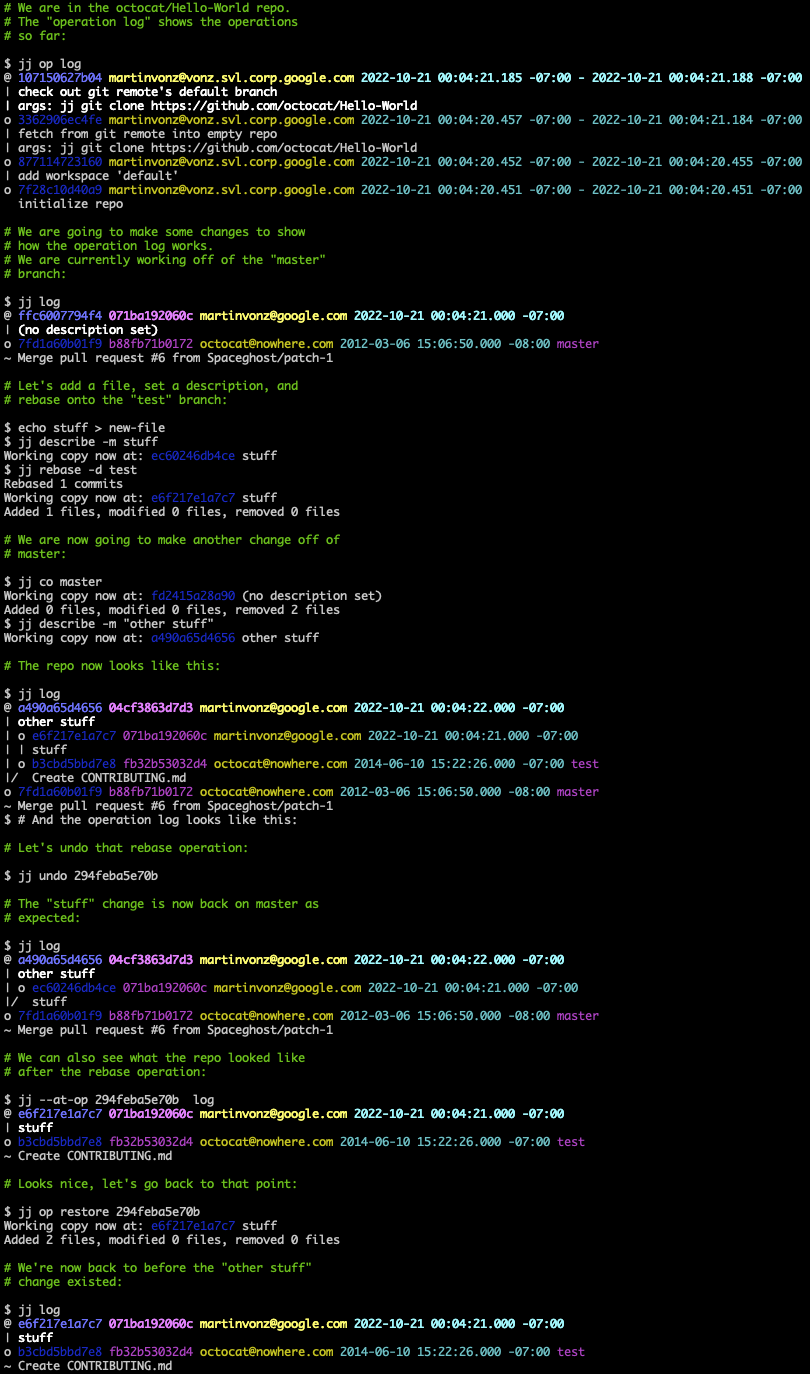
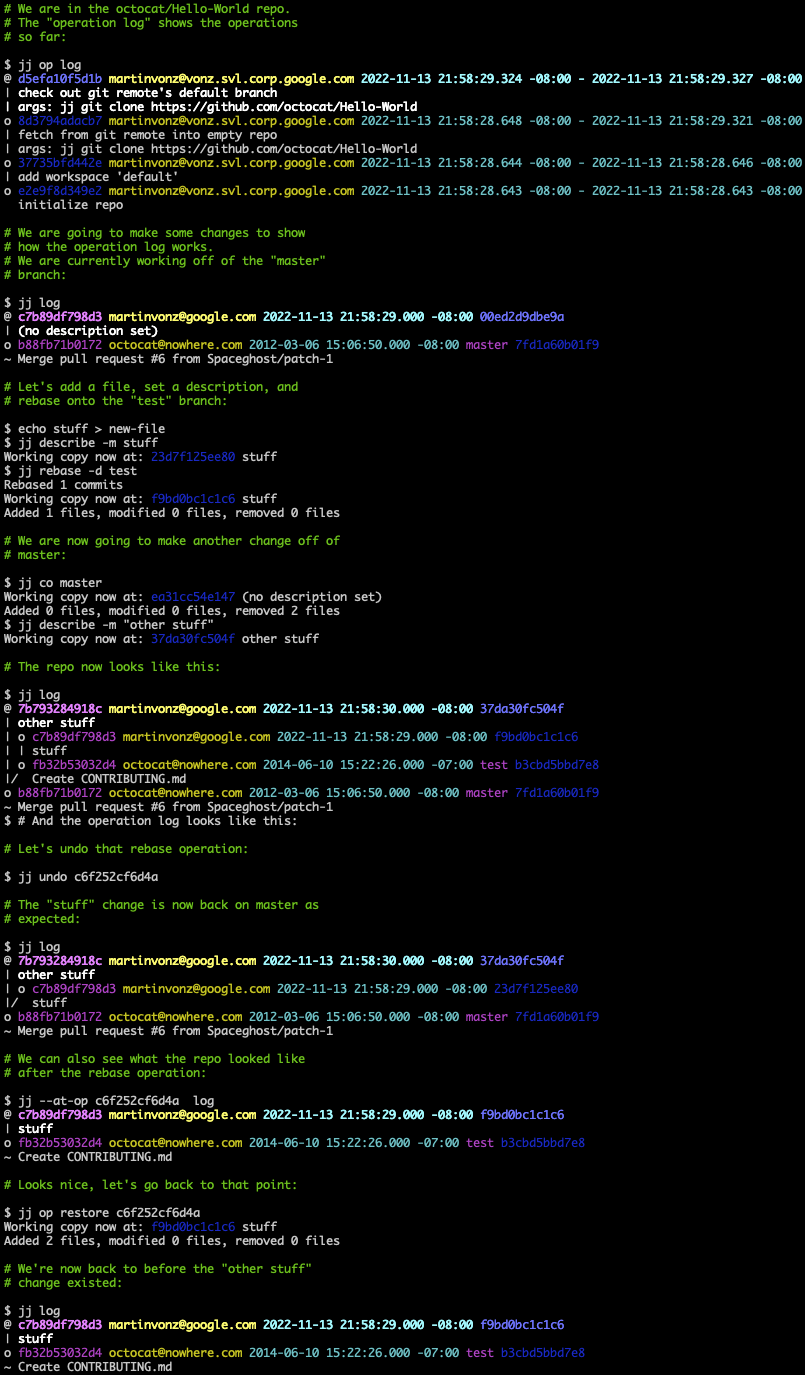
log: move commit ID off to the right
We have talked about showing the commit ID only for divergent changes
because it's generally easier to work with the change ID, and it's
less likely to result in a divergent change. However, it's useful to
have the commit ID available for pasting into e.g. a commit message or
the GitHub UI. To try to steer users towards using the change ID, this
commit moves the commit ID off to the right in the log output.

I put it just after the "divergent" field, because that makes it close
to how I imagine it would look if we decided to hide the commit ID
except for divergent changes. I was thinking that could be rendered as
"divergent (abc123)". So if we add config to hide the commit ID, then
it would be rendered almost the same for divergent commits (just with
the added parentheses). It would also make sense to replace the
"divergent" field by a question mark on the change ID, since change
IDs basically behave like branches. If we do that, then the placement
of the commit ID I picked in this commit does not make sense.

Changed region(s): [[0.0, 0.0, 0.9938, 1.0]]

diff --git a/tests/test_obslog_command.rs b/tests/test_obslog_command.rs
@@ -34,13 +34,13 @@ fn test_obslog_with_or_without_diff() {
 
     let stdout = get_log_output(&test_env, &repo_path, &["obslog"]);
     insta::assert_snapshot!(stdout, @r###"
-    @ 1daafc17fefb test.user@example.com 2001-02-03 04:05:08.000 +07:00
+    @  test.user@example.com 2001-02-03 04:05:08.000 +07:00 1daafc17fefb
     | my description
-    o 813918f7b4e6 test.user@example.com 2001-02-03 04:05:08.000 +07:00 conflict
+    o  test.user@example.com 2001-02-03 04:05:08.000 +07:00 813918f7b4e6 conflict
     | my description
-    o 8f02f5470c55 test.user@example.com 2001-02-03 04:05:08.000 +07:00
+    o  test.user@example.com 2001-02-03 04:05:08.000 +07:00 8f02f5470c55
     | my description
-    o c8ceb219336b test.user@example.com 2001-02-03 04:05:08.000 +07:00
+    o  test.user@example.com 2001-02-03 04:05:08.000 +07:00 c8ceb219336b
       my description
     "###);
 
@@ -48,43 +48,43 @@ fn test_obslog_with_or_without_diff() {
     // (even even though it resulted in a conflict).
     let stdout = get_log_output(&test_env, &repo_path, &["obslog", "-p"]);
     insta::assert_snapshot!(stdout, @r###"
-    @ 1daafc17fefb test.user@example.com 2001-02-03 04:05:08.000 +07:00
+    @  test.user@example.com 2001-02-03 04:05:08.000 +07:00 1daafc17fefb
     | my description
     | Resolved conflict in file1:
     |    1    1: <<<<<<<resolved
     |    2     : %%%%%%%
     |    3     : +bar
     |    4     : >>>>>>>
-    o 813918f7b4e6 test.user@example.com 2001-02-03 04:05:08.000 +07:00 conflict
+    o  test.user@example.com 2001-02-03 04:05:08.000 +07:00 813918f7b4e6 conflict
     | my description
-    o 8f02f5470c55 test.user@example.com 2001-02-03 04:05:08.000 +07:00
+    o  test.user@example.com 2001-02-03 04:05:08.000 +07:00 8f02f5470c55
     | my description
     | Modified regular file file1:
     |    1    1: foo
     |         2: bar
     | Added regular file file2:
     |         1: foo
-    o c8ceb219336b test.user@example.com 2001-02-03 04:05:08.000 +07:00
+    o  test.user@example.com 2001-02-03 04:05:08.000 +07:00 c8ceb219336b
       my description
     "###);
 
     // Test `--no-graph`
     let stdout = get_log_output(&test_env, &repo_path, &["obslog", "--no-graph"]);
     insta::assert_snapshot!(stdout, @r###"
-    1daafc17fefb test.user@example.com 2001-02-03 04:05:08.000 +07:00
+     test.user@example.com 2001-02-03 04:05:08.000 +07:00 1daafc17fefb
     my description
-    813918f7b4e6 test.user@example.com 2001-02-03 04:05:08.000 +07:00 conflict
+     test.user@example.com 2001-02-03 04:05:08.000 +07:00 813918f7b4e6 conflict
     my description
-    8f02f5470c55 test.user@example.com 2001-02-03 04:05:08.000 +07:00
+     test.user@example.com 2001-02-03 04:05:08.000 +07:00 8f02f5470c55
     my description
-    c8ceb219336b test.user@example.com 2001-02-03 04:05:08.000 +07:00
+     test.user@example.com 2001-02-03 04:05:08.000 +07:00 c8ceb219336b
     my description
     "###);
 
     // Test `--git` format, and that it implies `-p`
     let stdout = get_log_output(&test_env, &repo_path, &["obslog", "--no-graph", "--git"]);
     insta::assert_snapshot!(stdout, @r###"
-    1daafc17fefb test.user@example.com 2001-02-03 04:05:08.000 +07:00
+     test.user@example.com 2001-02-03 04:05:08.000 +07:00 1daafc17fefb
     my description
     diff --git a/file1 b/file1
     index e155302a24...2ab19ae607 100644
@@ -96,9 +96,9 @@ fn test_obslog_with_or_without_diff() {
     -+bar
     ->>>>>>>
     +resolved
-    813918f7b4e6 test.user@example.com 2001-02-03 04:05:08.000 +07:00 conflict
+     test.user@example.com 2001-02-03 04:05:08.000 +07:00 813918f7b4e6 conflict
     my description
-    8f02f5470c55 test.user@example.com 2001-02-03 04:05:08.000 +07:00
+     test.user@example.com 2001-02-03 04:05:08.000 +07:00 8f02f5470c55
     my description
     diff --git a/file1 b/file1
     index 257cc5642c...3bd1f0e297 100644
@@ -114,7 +114,7 @@ fn test_obslog_with_or_without_diff() {
     +++ b/file2
     @@ -1,0 +1,1 @@
     +foo
-    c8ceb219336b test.user@example.com 2001-02-03 04:05:08.000 +07:00
+     test.user@example.com 2001-02-03 04:05:08.000 +07:00 c8ceb219336b
     my description
     "###);
 }
@@ -136,36 +136,36 @@ fn test_obslog_squash() {
 
     let stdout = get_log_output(&test_env, &repo_path, &["obslog", "-p", "-r", "@-"]);
     insta::assert_snapshot!(stdout, @r###"
-    o   9b6d4a272a6a test.user@example.com 2001-02-03 04:05:07.000 +07:00
+    o    test.user@example.com 2001-02-03 04:05:07.000 +07:00 9b6d4a272a6a
     |\  squashed
     | | Modified regular file file1:
     | |    1    1: foo
     | |         2: bar
-    o | 803a7299cb1a test.user@example.com 2001-02-03 04:05:07.000 +07:00
+    o |  test.user@example.com 2001-02-03 04:05:07.000 +07:00 803a7299cb1a
     | | first
     | | Added regular file file1:
     | |         1: foo
-    o | 85a1e2839620 test.user@example.com 2001-02-03 04:05:07.000 +07:00
+    o |  test.user@example.com 2001-02-03 04:05:07.000 +07:00 85a1e2839620
     | | first
-    o | 230dd059e1b0 test.user@example.com 2001-02-03 04:05:07.000 +07:00
+    o |  test.user@example.com 2001-02-03 04:05:07.000 +07:00 230dd059e1b0
      /  (no description set)
-    o 69231a40d60d test.user@example.com 2001-02-03 04:05:09.000 +07:00
+    o  test.user@example.com 2001-02-03 04:05:09.000 +07:00 69231a40d60d
     | second
     | Modified regular file file1:
     |    1    1: foo
     |         2: bar
-    o b567edda97ab test.user@example.com 2001-02-03 04:05:09.000 +07:00
+    o  test.user@example.com 2001-02-03 04:05:09.000 +07:00 b567edda97ab
       second
     "###);
 }
 
 fn get_log_output(test_env: &TestEnvironment, repo_path: &Path, args: &[&str]) -> String {
     // Filter out the change ID since it's random
-    let regex = Regex::new("^([o@| ]+)?([0-9a-f]{12}) ([0-9a-f]{12}) ").unwrap();
+    let regex = Regex::new("^([o@| ]+)?([0-9a-f]{12})").unwrap();
     let mut lines = vec![];
     let stdout = test_env.jj_cmd_success(repo_path, args);
     for line in stdout.split_inclusive('\n') {
-        lines.push(regex.replace(line, "$1$2 "));
+        lines.push(regex.replace(line, "$1"));
     }
     lines.join("")
 }

diff --git a/tests/test_init_command.rs b/tests/test_init_command.rs
@@ -107,7 +107,7 @@ fn test_init_git_external() {
     // Check that the Git repo's HEAD got checked out
     let stdout = test_env.jj_cmd_success(&repo_path, &["log", "-r", "@-"]);
     insta::assert_snapshot!(stdout, @r###"
-    o 8d698d4a8ee1 d3866db7e30a git.user@example.com 1970-01-01 01:02:03.000 +01:00 my-branch HEAD@git
+    o d3866db7e30a git.user@example.com 1970-01-01 01:02:03.000 +01:00 my-branch HEAD@git 8d698d4a8ee1
     ~ My commit message
     "###);
 }
@@ -150,7 +150,7 @@ fn test_init_git_colocated() {
     // Check that the Git repo's HEAD got checked out
     let stdout = test_env.jj_cmd_success(&repo_path, &["log", "-r", "@-"]);
     insta::assert_snapshot!(stdout, @r###"
-    o 8d698d4a8ee1 d3866db7e30a git.user@example.com 1970-01-01 01:02:03.000 +01:00 my-branch HEAD@git
+    o d3866db7e30a git.user@example.com 1970-01-01 01:02:03.000 +01:00 my-branch HEAD@git 8d698d4a8ee1
     ~ My commit message
     "###);
 }

diff --git a/src/commands.rs b/src/commands.rs
@@ -1994,8 +1994,7 @@ fn log_template(settings: &UserSettings) -> String {
     // TODO: define a method on boolean values, so we can get auto-coloring
     //       with e.g. `conflict.then("conflict")`
     let default_template = r#"
-            commit_id.short()
-            " " change_id.short()
+            change_id.short()
             " " author.email()
             " " label("timestamp", author.timestamp())
             if(branches, " " branches)
@@ -2003,6 +2002,7 @@ fn log_template(settings: &UserSettings) -> String {
             if(working_copies, " " working_copies)
             if(is_git_head, label("git_head", " HEAD@git"))
             if(divergent, label("divergent", " divergent"))
+            " " commit_id.short()
             if(conflict, label("conflict", " conflict"))
             "\n"
             description.first_line()

diff --git a/tests/test_alias.rs b/tests/test_alias.rs
@@ -64,7 +64,7 @@ fn test_alias_cannot_override_builtin() {
     // Alias should be ignored
     let stdout = test_env.jj_cmd_success(&repo_path, &["log", "-r", "root"]);
     insta::assert_snapshot!(stdout, @r###"
-    o 000000000000 000000000000  1970-01-01 00:00:00.000 +00:00
+    o 000000000000  1970-01-01 00:00:00.000 +00:00 000000000000
       (no description set)
     "###);
 }

diff --git a/docs/tutorial.md b/docs/tutorial.md
@@ -127,19 +127,20 @@ You're probably familiar with `git log`. Jujutsu has very similar functionality
 in its `jj log` command:
 ```shell script
 $ jj log
-@ 192b456b024b f39aeb1a0200 martinvonz@google.com 2021-05-23 23:10:27.000 -07:00
+@ f39aeb1a0200 martinvonz@google.com 2021-05-23 23:10:27.000 -07:00 192b456b024b
 | (no description set)
-o fb563a4c6d26 f63e76f175b9 martinvonz@google.com 2021-05-23 22:13:45.000 -07:00
+o f63e76f175b9 martinvonz@google.com 2021-05-23 22:13:45.000 -07:00 fb563a4c6d26
 | Jujutsu is ready!
-o 080a9b37ff7e 6a91b4ba16c7 martinvonz@google.com 2021-05-23 22:08:37.000 -07:00 main
+o 6a91b4ba16c7 martinvonz@google.com 2021-05-23 22:08:37.000 -07:00 main 080a9b37ff7e
 ~ cli: make `jj st` show parent commit before working copy commit
 ```
 
 The `@` indicates the working-copy commit. The first hash on a line is the
-commit ID. The second hash is a "change ID", which is an ID that follows the
-commit as it's rewritten (similar to Gerrit's Change-Id). You can give either
-hash to commands that take revisions as arguments. We will generally prefer
-change IDs because they stay the same when the commit is rewritten.
+"change ID", which is an ID that follows the commit as it's rewritten (similar
+to Gerrit's Change-Id). The second hash is the commit ID, which changes when you
+rewrite the commit. You can give either hash to commands that take revisions as
+arguments. We will generally prefer change IDs because they stay the same when
+the commit is rewritten.
 
 By default, `jj log` list your local commits, with some remote commits added for
 context.  The `~` indicates that the commit has parents that are not included
@@ -151,11 +152,11 @@ all commits pointed to by branches. We can combine expressions with `|` for
 union, `&` for intersection and `~` for difference. For example:
 ```shell script
 $ jj log -r '@ | root | branches()'
-@ 192b456b024b f39aeb1a0200 martinvonz@google.com 2021-05-23 23:10:27.000 -07:00
+@ f39aeb1a0200 martinvonz@google.com 2021-05-23 23:10:27.000 -07:00 192b456b024b
 : (no description set)
-o 080a9b37ff7e 6a91b4ba16c7 martinvonz@google.com 2021-05-23 22:08:37.000 -07:00 main
+o 6a91b4ba16c7 martinvonz@google.com 2021-05-23 22:08:37.000 -07:00 main 080a9b37ff7e
 : cli: make `jj st` show parent commit before working copy commit
-o 000000000000 000000000000 1970-01-01 00:00:00.000 +00:00
+o 000000000000  1970-01-01 00:00:00.000 +00:00 000000000000
   (no description set)
 ```
 
@@ -184,13 +185,13 @@ Working copy now at: fd571967346e B2
 $ jj new -m C; echo c > file2
 Working copy now at: 4ae1e0587eef C
 $ jj log
-@ 1769bdaa8d6d 8e6178b84ffb martinvonz@google.com 2021-05-26 12:39:35.000 -07:00
+@ 8e6178b84ffb martinvonz@google.com 2021-05-26 12:39:35.000 -07:00 1769bdaa8d6d
 | C
-o de5690380f40 5548374c0794 martinvonz@google.com 2021-05-26 12:39:30.000 -07:00
+o 5548374c0794 martinvonz@google.com 2021-05-26 12:39:30.000 -07:00 de5690380f40
 | B2
-o 47e336632333 ce619d39bd96 martinvonz@google.com 2021-05-26 12:39:20.000 -07:00
+o ce619d39bd96 martinvonz@google.com 2021-05-26 12:39:20.000 -07:00 47e336632333
 | B1
-o 661432c51c08 cf49e6bec410 martinvonz@google.com 2021-05-26 12:39:12.000 -07:00
+o cf49e6bec410 martinvonz@google.com 2021-05-26 12:39:12.000 -07:00 661432c51c08
 ~ A
 ```
 
@@ -202,13 +203,13 @@ Rebased 2 commits
 Working copy now at: 9195b6d2e8dc C
 Added 0 files, modified 1 files, removed 0 files
 $ jj log
-@ 66274d5a7d2d 8e6178b84ffb martinvonz@google.com 2021-05-26 12:39:35.000 -07:00 conflict
+@ 8e6178b84ffb martinvonz@google.com 2021-05-26 12:39:35.000 -07:00 66274d5a7d2d conflict
 | C
-o 0c305a9e6b27 5548374c0794 martinvonz@google.com 2021-05-26 12:39:30.000 -07:00 conflict
+o 5548374c0794 martinvonz@google.com 2021-05-26 12:39:30.000 -07:00 0c305a9e6b27 conflict
 | B2
-| o 47e336632333 ce619d39bd96 martinvonz@google.com 2021-05-26 12:39:20.000 -07:00
+| o ce619d39bd96 martinvonz@google.com 2021-05-26 12:39:20.000 -07:00 47e336632333
 |/  B1
-o 661432c51c08 cf49e6bec410 martinvonz@google.com 2021-05-26 12:39:12.000 -07:00
+o cf49e6bec410 martinvonz@google.com 2021-05-26 12:39:12.000 -07:00 661432c51c08
 ~ A
 ```
 
@@ -246,15 +247,15 @@ $ jj squash
 Rebased 1 descendant commits
 Working copy now at: e659edc4a9fc (no description set)
 $ jj log
-@ e659edc4a9fc 461f38324592 martinvonz@google.com 2021-05-26 12:53:08.000 -07:00
+@ 461f38324592 martinvonz@google.com 2021-05-26 12:53:08.000 -07:00 e659edc4a9fc
 | (no description set)
-| o 69dbcf76642a 8e6178b84ffb martinvonz@google.com 2021-05-26 12:39:35.000 -07:00
+| o 8e6178b84ffb martinvonz@google.com 2021-05-26 12:39:35.000 -07:00 69dbcf76642a
 |/  C
-o 576d647acf36 5548374c0794 martinvonz@google.com 2021-05-26 12:39:30.000 -07:00
+o 5548374c0794 martinvonz@google.com 2021-05-26 12:39:30.000 -07:00 576d647acf36
 | B2
-| o 47e336632333 ce619d39bd96 martinvonz@google.com 2021-05-26 12:39:20.000 -07:00
+| o ce619d39bd96 martinvonz@google.com 2021-05-26 12:39:20.000 -07:00 47e336632333
 |/  B1
-o 661432c51c08 cf49e6bec410 martinvonz@google.com 2021-05-26 12:39:12.000 -07:00
+o cf49e6bec410 martinvonz@google.com 2021-05-26 12:39:12.000 -07:00 661432c51c08
 ~ A
 ```
 
@@ -292,15 +293,15 @@ an operation. By default, it will undo the most recent operation. Let's try it:
 $ jj undo
 Working copy now at: 41f0d2289b56
 $ jj log
-@ 41f0d2289b56 b1e3a4afde5e martinvonz@google.com 2021-05-26 12:52:39.000 -07:00
+@ b1e3a4afde5e martinvonz@google.com 2021-05-26 12:52:39.000 -07:00 41f0d2289b56
 | (no description set)
-| o 66274d5a7d2d 8e6178b84ffb martinvonz@google.com 2021-05-26 12:39:35.000 -07:00 conflict
+| o 8e6178b84ffb martinvonz@google.com 2021-05-26 12:39:35.000 -07:00 66274d5a7d2d conflict
 |/  C
-o 0c305a9e6b27 5548374c0794 martinvonz@google.com 2021-05-26 12:39:30.000 -07:00 conflict
+o 5548374c0794 martinvonz@google.com 2021-05-26 12:39:30.000 -07:00 0c305a9e6b27 conflict
 | B2
-| o 47e336632333 ce619d39bd96 martinvonz@google.com 2021-05-26 12:39:20.000 -07:00
+| o ce619d39bd96 martinvonz@google.com 2021-05-26 12:39:20.000 -07:00 47e336632333
 |/  B1
-o 661432c51c08 cf49e6bec410 martinvonz@google.com 2021-05-26 12:39:12.000 -07:00
+o cf49e6bec410 martinvonz@google.com 2021-05-26 12:39:12.000 -07:00 661432c51c08
 ~ A
 ```
 As you can perhaps see, that undid the `jj squash` invocation we used for
@@ -333,11 +334,11 @@ Working copy now at: 9d97c5018b23 ABC
 $ jj new -m ABCD; printf 'A\nB\nC\nD\n' > file
 Working copy now at: c5a985bc3f41 ABCD
 $ jj log
-@ 687009839bae 874f2d307594 martinvonz@google.com 2021-05-26 14:36:38.000 -07:00 
+@ 874f2d307594 martinvonz@google.com 2021-05-26 14:36:38.000 -07:00 687009839bae 
 | ABCD
-o ad9b1ce3b5d0 2bbc0c1eb382 martinvonz@google.com 2021-05-26 14:36:26.000 -07:00 
+o 2bbc0c1eb382 martinvonz@google.com 2021-05-26 14:36:26.000 -07:00 ad9b1ce3b5d0 
 | ABC
-o a355fb177b21 3680117711f5 martinvonz@google.com 2021-05-26 14:36:05.000 -07:00 
+o 3680117711f5 martinvonz@google.com 2021-05-26 14:36:05.000 -07:00 a355fb177b21 
 ~ abc
 ```
 

diff --git a/CHANGELOG.md b/CHANGELOG.md
@@ -49,6 +49,11 @@ and this project adheres to [Semantic Versioning](https://semver.org/spec/v2.0.0
 * (#254) Branches that have a different target on some remote than they do
   locally are now indicated by an asterisk suffix (e.g. `main*`) in `jj log`.
 
+* The commit ID was moved from first on the line in `jj log` output to close to
+  the end. The goal is to encourage users to use the change ID instead, since
+  that is generally more convenient, and it reduces the risk of creating
+  divergent commits.
+
 ### Fixed bugs
 
 * (#463) A bug in the export of branches to Git caused spurious conflicted
